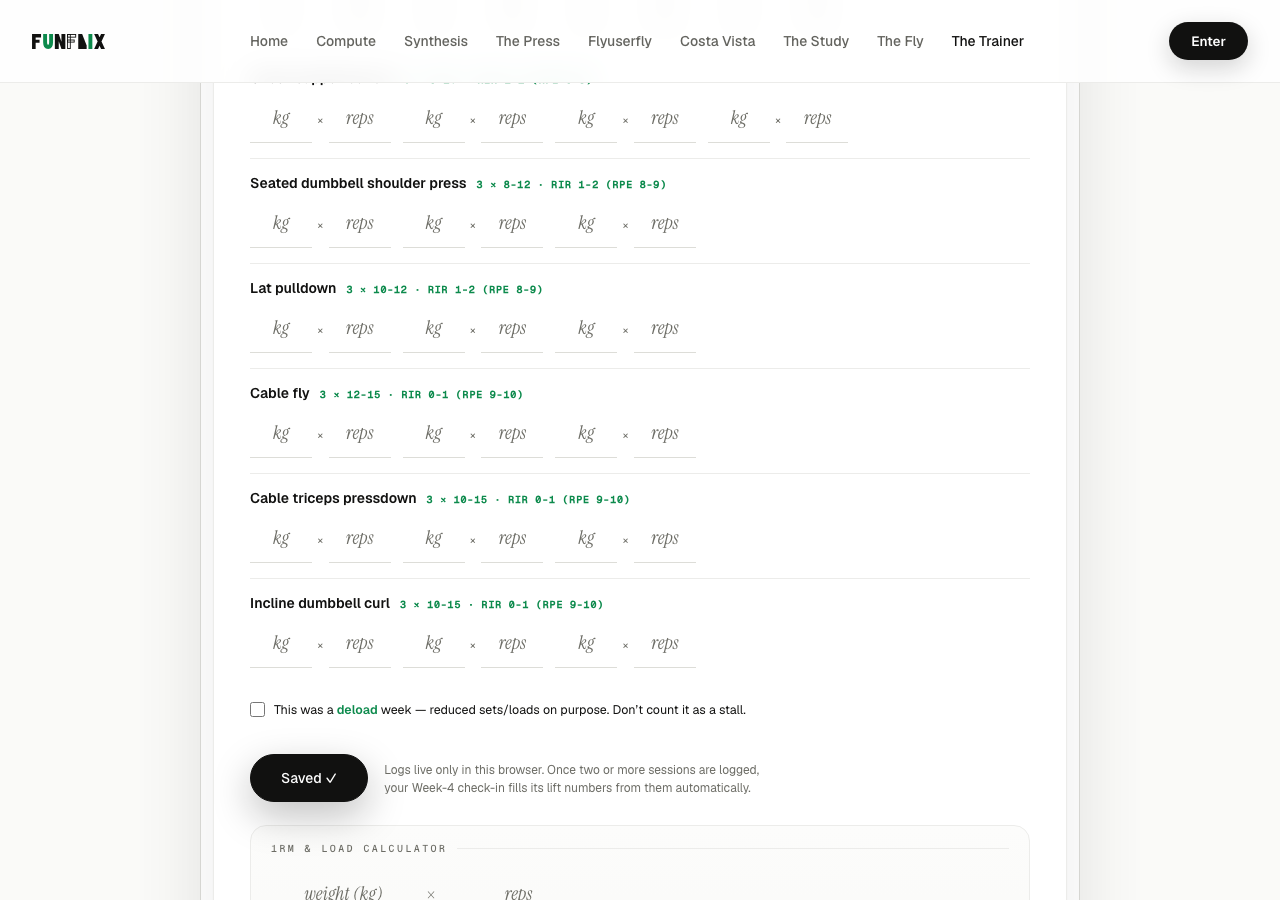
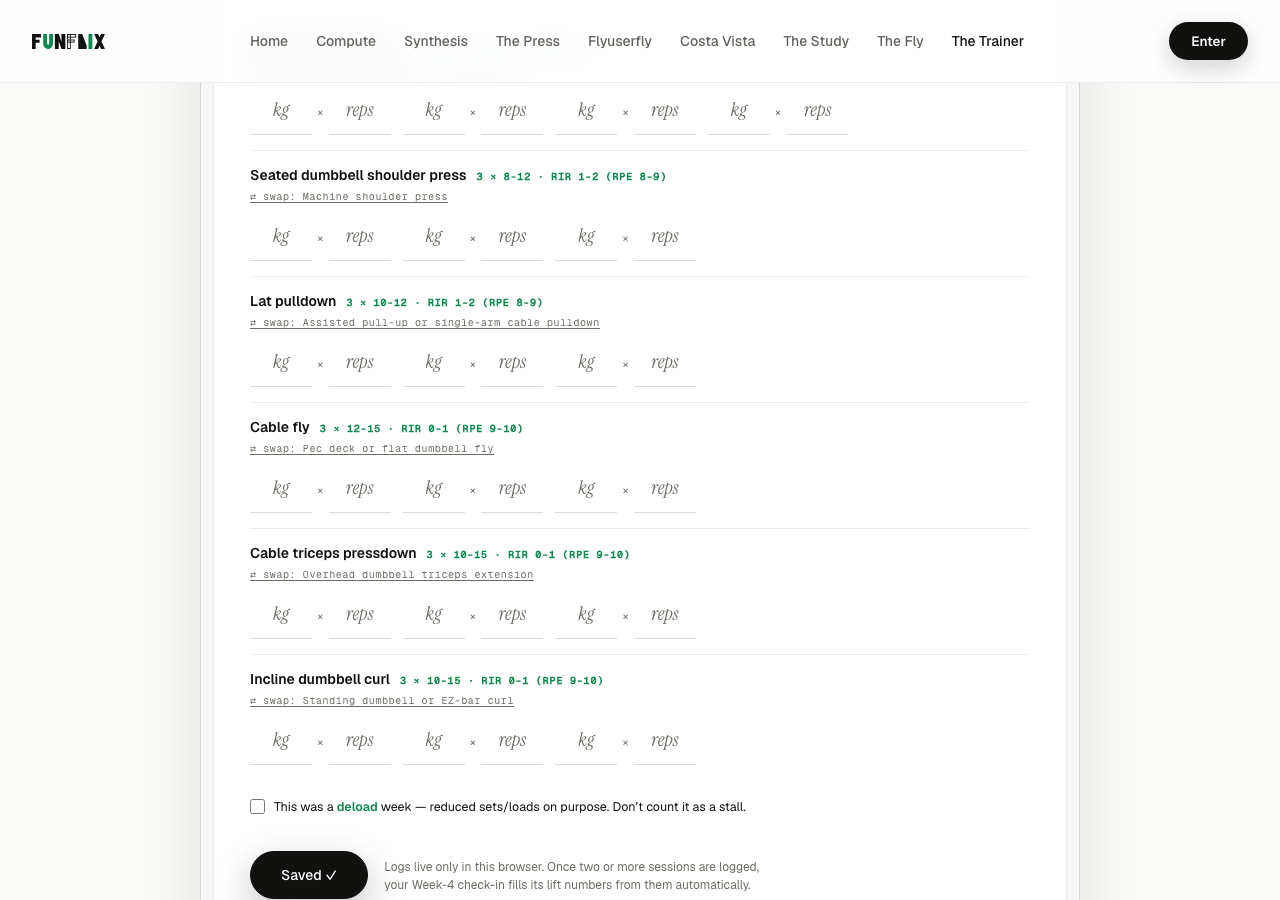
Sprint 38: Producer review — close the 32-38 batch
Full QA sweep + luxury/mobile review + cross-team synthesis, no code change.
- Green board: pytest 142; site_qa 32/32; qa_checkin_safety/state, qa_next_target,
  qa_block_phase, qa_bar_plate, qa_swap_cadence, qa_reset_client all ALL OK.
- 390px sweep: Log form, What's-Next banner, Coach plate calculator, and the full
  plan document (10 sections, no undefined) all clean.
- ROUNDTABLE synthesis: threads T1-T4 resolved (all loop ideas shipped; R2 landed
  S34); RED TEAM watch-list empty; SIMULATION correctness cluster closed.
- SPRINT_38.md + ROADMAP shipped list updated for the 28-31 and 32-38 batches.

Pending (owner, free): GMAIL_USER + GMAIL_APP_PASSWORD on Render (EMAIL_SETUP.md).

diff --git a/docs/trainer/SPRINT_38.md b/docs/trainer/SPRINT_38.md
@@ -1,0 +1,43 @@
+# Sprint 38 — Producer review (batch close: Sprints 32–38)
+
+**Theme:** consolidate the 7-sprint batch — full QA sweep, luxury/mobile review,
+cross-team synthesis — and confirm the live site is solid before handing back.
+
+## Full green board (local, S37 code)
+- **pytest 142** (no network, < 5 s).
+- QA scripts, all **ALL OK**: `site_qa` (32/32), `qa_checkin_safety`,
+  `qa_checkin_state`, `qa_next_target`, `qa_block_phase`, `qa_bar_plate`,
+  `qa_swap_cadence`, `qa_reset_client`.
+- Live: every sprint verified on Render via `verify_live.py --wait-for <sha>`.
+
+## Luxury / mobile sweep (390px)
+- Log form with next-session targets + deload checkbox + swap link — clean.
+- What's-Next card with the periodization banner — clean (accent on deload).
+- Coach Mode plate calculator with bar selector — clean.
+- Full plan document (`?demo`): 10 sections, no "undefined", warm-up ramp,
+  pictograms, form links, per-exercise substitutions, session summary — pristine.
+- Screenshots: `qa/shots/s3{3,4,6,7,8}_*.png`.
+
+## Cross-team synthesis
+See `ROUNDTABLE.md` (2026-08-02). Threads T1–T4 **resolved** (all loop ideas are
+now product; R2 shipped S34). RED TEAM watch-list **empty**. SIMULATION correctness
+cluster **closed**. The base is feature-complete for a $0 app.
+
+## Batch summary (32–38)
+| # | Shipped | Team |
+|---|---|---|
+| 32 | Server-side union merge for logs/weights (lossless multi-device; same-day collision) | RED TEAM / SIM |
+| 33 | Next-session double-progression targets on the Log form | R&D / feedback loop |
+| 34 | Periodization block banner (mesocycle position) | REFINERS R2 |
+| 35 | Check-in payload carries the deload clock + stall history | SIMULATION |
+| 36 | Configurable bar + unit in Coach Mode plate math (fixes hardcoded 20 kg) | SIMULATION |
+| 37 | Interactive exercise swap + hardened deload-cadence parse | REFINERS / SIM |
+| 38 | Producer review + luxury sweep + synthesis | Producer |
+
+## Pending (owner, free, unchanged)
+Set `GMAIL_USER` + `GMAIL_APP_PASSWORD` on Render (see `EMAIL_SETUP.md`) to enable
+OTP signup + password-reset email delivery for real users. Nothing else is blocked.
+
+## Outcome (closed)
+Batch complete, all live and green. The Trainer's base is solid: durable data,
+honest coaching, and a visible progression/periodization loop.

diff --git a/docs/trainer/ROUNDTABLE.md b/docs/trainer/ROUNDTABLE.md
@@ -98,3 +98,32 @@ most design; R12 is the best *retention-per-line*.
   one) and accept the longer build? A two-team corroboration exists for R1/R7
   (us + R&D + SIM) — per the round-table rule that ranks it higher.
 — THE REFINERS, 2026-07-27
+
+---
+
+## Producer synthesis — Sprints 32–38 batch (2026-08-02)
+
+**Threads T1–T4 resolved [RESOLVED].** All four REFINERS P0/P1 loop ideas shipped
+earlier (R1 volume autoregulation S15, R7 fatigue-deload S15, R8/R9 nutrition
+tune-up + meal checklist S16, R12 home card + recap S17/18); **R2 (block-phase
+banner) shipped this batch (S34)**. The loop questions the round table opened are
+now product, not backlog — closing the threads.
+
+**What this batch delivered (and which team drove it):**
+- **RED TEAM** — the last open item, the sync lost-update race, is closed by a
+  server-side union merge (S32); the whole watch-list is now empty.
+- **SIMULATION** — correctness cluster closed: same-day backdated-log collision
+  (S32), check-in payload now carries the deload clock + stall history (S35),
+  the hardcoded-20 kg bar is configurable (S36), and the brittle deload-cadence
+  regex is hardened (S37).
+- **REFINERS** — R2 periodization banner (S34); the plan's static substitution
+  became an interactive swap that carries its own history/target (S37).
+- **R&D LAB** — verified the compact (Groq) prompt already carries the stall rule
+  + special populations + consistent numbers (S12), so "Groq parity" needed no
+  work; the feedback loop gained next-session double-progression targets (S33).
+
+**Cross-team agreement going forward:** the base is solid and feature-complete for
+a $0 app. The only owner-gated item remains the **free Gmail app-password setup**
+(EMAIL_SETUP.md) to light up OTP + password reset for real users. Remaining
+non-urgent backlog: a per-lift progress chart, and (if ever wanted) a full
+app-wide kg/lb toggle beyond the plate calculator. No team is pushing a new system.

diff --git a/docs/trainer/ROADMAP.md b/docs/trainer/ROADMAP.md
@@ -127,6 +127,17 @@ from this file directly.
 - Sprint 26 — Performance: stdlib-gzip `after_request` — `/trainer` 187 KB → 52 KB
   (-73%, the Lighthouse text-compression win), streamed/SSE untouched, graceful
   fallback, regression tests. No CSS/JS split needed.
+- Sprints 28–31 — Trust & recovery batch: honest-at-check-in (age/gender survive
+  recalibration, check-in gated on a plan, manual deload tagged); **free Gmail SMTP
+  email** (no domain, $0); **password reset** via emailed code (full sign-in
+  recovery); auth hardening (bounded rate-limit map, per-account cap, password
+  length cap, non-dict-JSON guard).
+- Sprints 32–38 — Loop & durability batch: **server-side union merge** for
+  logs/weights (lossless multi-device, same-day collision fixed); **next-session
+  double-progression targets** on the Log form; **periodization block banner** (R2);
+  **check-in payload** now carries the deload clock + stall history; **configurable
+  bar + unit** in Coach Mode plate math (hardcoded-20 kg fix); **interactive
+  exercise swap** + hardened deload-cadence parse; Producer review + luxury sweep.
 - Sprint 27 — A Second Door (demo): a female fat-loss sample (`?demo=cut` /
   `?sample=cut` / a "Cutting? See a fat-loss sample" welcome switcher) so the
   "see a sample" door speaks to cutters too, showcasing concrete starting loads;
